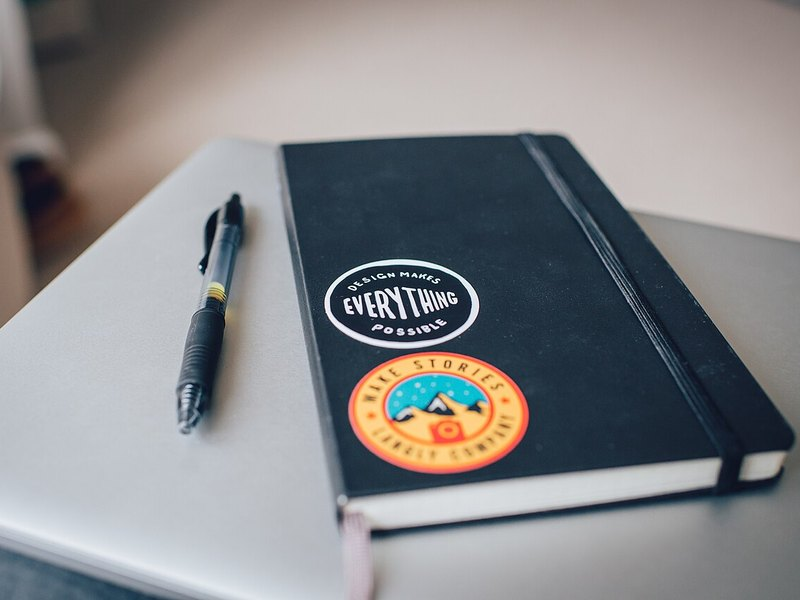
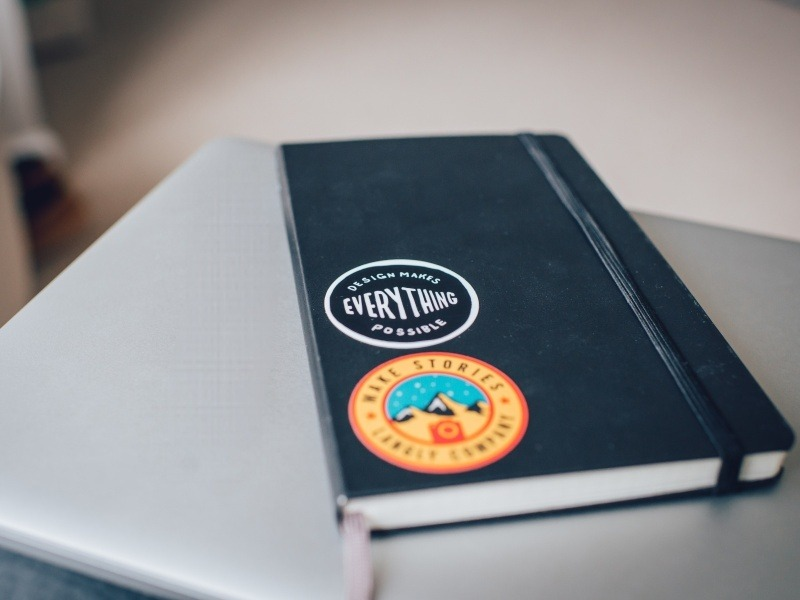
cards: 第23巻の공책（ノート）の実物写真から、ノートの横に置かれていたペンを消して背景を作り直し・PHOTO_VER=16・クレジットに改変の表示を追加

diff --git a/cards.html b/cards.html
@@ -1147,7 +1147,7 @@ var VOLUMES = [
   "23-jiugae": { f: "assets/photos/v23-jiugae.jpg", a: "Stefan-Xp", l: "CC BY-SA 3.0", u: "https://commons.wikimedia.org/wiki/File:Pelikan_Radiergummi.jpg" },
   "23-saekyeonpil": { f: "assets/photos/v23-saekyeonpil.jpg", a: "MichaelMaggs", l: "CC BY-SA 3.0", u: "https://commons.wikimedia.org/wiki/File:Colouring_pencils.jpg" },
   "23-keurepas": { f: "assets/photos/v23-keurepas.jpg", a: "Ks.mini", l: "CC BY-SA 3.0", u: "https://commons.wikimedia.org/wiki/File:Crayons_with_colors.JPG" },
-  "23-gongchaek": { f: "assets/photos/v23-gongchaek.jpg", a: "Ian Schneider goian", l: "CC0", u: "https://commons.wikimedia.org/wiki/File:Stickers_on_a_notebook_(Unsplash).jpg" },
+  "23-gongchaek": { f: "assets/photos/v23-gongchaek.jpg", a: "Ian Schneider goian", l: "CC0", u: "https://commons.wikimedia.org/wiki/File:Stickers_on_a_notebook_(Unsplash).jpg", m: "ペンを消去" },
   "23-chaek": { f: "assets/photos/v23-chaek.jpg", a: "HonysTorresArt", l: "CC BY-SA 4.0", u: "https://commons.wikimedia.org/wiki/File:Open_Internal_Pages_of_the_Book_Detr%C3%A1s_del_espejo_05.png" },
   "23-gawi": { f: "assets/photos/v23-gawi.jpg", a: "BGN-WMCO", l: "CC BY 2.5", u: "https://commons.wikimedia.org/wiki/File:Pair_of_scissors_with_black_handle.jpg" },
   "23-pul": { f: "assets/photos/v23-pul.jpg", a: "Elarkon", l: "CC BY-SA 3.0", u: "https://commons.wikimedia.org/wiki/File:Pritt_Sticks.JPG" },
@@ -1194,7 +1194,7 @@ var VOLUMES = [
   /* 音声ファイルを追加したら、この数字を上げてください（ブラウザに残った古い404を避けるため） */
   var AUDIO_VER = "2";
   /* 写真を差し替えたら、この数字を上げてください（ブラウザに残った古い画像を避けるため） */
-  var PHOTO_VER = "15";
+  var PHOTO_VER = "16";
   var LANG_KEY = "levelupk_cards_lang";
   var probeCache = {};
   var lang = "ja";

diff --git a/assets/photos/CREDITS.md b/assets/photos/CREDITS.md
@@ -16,6 +16,7 @@ CC BY / CC BY-SA の写真は、カードの下に「写真：作者 ／ Wikimed
 第19巻（かでん）の 텔레비전・에어컨・청소기・선풍기・드라이기・태블릿 の6点と、第20巻の 병원 は、2026-11-26 に、テレビは テレビ本体だけが主役になる白背景の写真、エアコンは 今どきの白い壁かけ形、そうじきは コードレスのスティック形、せんぷうきは 丸い羽根から台まで全体が入る写真、ドライヤーは ふつうの家庭用、タブレットは タブレットが画面いっぱいの写真、びょういんは 建物に「病院」の文字が大きく出ている写真に差し替えました。
 第18巻（かぐ）の 책상 は、コンピューターや雑貨の少ない、机そのものが主役の写真に、옷장 は、扉を開けて服が見える写真に、2026-11-26 に差し替えました。同じ第18巻の最後の4語は、이불（ふとん）→사이드 테이블、베개（まくら）→자개장（らでんたんす、メトロポリタン美術館所蔵）、커튼（カーテン）→붙박이장（つくりつけクローゼット）、카펫（カーペット）→찬장（しょっきだな）に、ことばごと入れ替えました（2026-11-26）。찬장 は縦長の写真なので、左右の壁をのばして 800×600 に収めました。
 第22巻（やさい）の 오이・감자・고구마 は、2026-11-26 に、오이 は ズッキーニと まぎらわしかった写真から 細長く いぼのある きゅうりに、감자 は 赤い皮の品種から ふつうの 黄褐色の じゃがいもに、고구마 は 色の うすい オレンジの皮から 濃い むらさき色の皮の さつまいもに 差し替えました。
+第23巻（ようちえん・ぶんぐ）の 공책 は、2026-11-26 に、ノートの横に置かれていたペンを消して背景を作り直しました（ノートとそのステッカー、背景は元の写真のまま）。
 
 | 巻 | ファイル | ことば | 元のファイル | 作者 | ライセンス | 出典 |
 |---|---|---|---|---|---|---|
@@ -344,7 +345,7 @@ CC BY / CC BY-SA の写真は、カードの下に「写真：作者 ／ Wikimed
 | 第23巻 ようちえん・ぶんぐ | v23-jiugae.jpg | 지우개（けしゴム） | Pelikan Radiergummi.jpg | Stefan-Xp | CC BY-SA 3.0 | [Commons](https://commons.wikimedia.org/wiki/File:Pelikan_Radiergummi.jpg) |
 | 第23巻 ようちえん・ぶんぐ | v23-saekyeonpil.jpg | 색연필（いろえんぴつ） | Colouring pencils.jpg | MichaelMaggs | CC BY-SA 3.0 | [Commons](https://commons.wikimedia.org/wiki/File:Colouring_pencils.jpg) |
 | 第23巻 ようちえん・ぶんぐ | v23-keurepas.jpg | 크레파스（クレヨン） | Crayons with colors.JPG | Ks.mini | CC BY-SA 3.0 | [Commons](https://commons.wikimedia.org/wiki/File:Crayons_with_colors.JPG) |
-| 第23巻 ようちえん・ぶんぐ | v23-gongchaek.jpg | 공책（ノート） | Stickers on a notebook (Unsplash).jpg | Ian Schneider goian | CC0 | [Commons](https://commons.wikimedia.org/wiki/File:Stickers_on_a_notebook_(Unsplash).jpg) |
+| 第23巻 ようちえん・ぶんぐ | v23-gongchaek.jpg | 공책（ノート） | Stickers on a notebook (Unsplash).jpg | Ian Schneider goian | CC0（ペンを消去） | [Commons](https://commons.wikimedia.org/wiki/File:Stickers_on_a_notebook_(Unsplash).jpg) |
 | 第23巻 ようちえん・ぶんぐ | v23-chaek.jpg | 책（ほん） | Open Internal Pages of the Book Detrás del espejo 05.png | HonysTorresArt | CC BY-SA 4.0 | [Commons](https://commons.wikimedia.org/wiki/File:Open_Internal_Pages_of_the_Book_Detr%C3%A1s_del_espejo_05.png) |
 | 第23巻 ようちえん・ぶんぐ | v23-gawi.jpg | 가위（はさみ） | Pair of scissors with black handle.jpg | BGN-WMCO | CC BY 2.5 | [Commons](https://commons.wikimedia.org/wiki/File:Pair_of_scissors_with_black_handle.jpg) |
 | 第23巻 ようちえん・ぶんぐ | v23-pul.jpg | 풀（のり） | Pritt Sticks.JPG | Elarkon | CC BY-SA 3.0 | [Commons](https://commons.wikimedia.org/wiki/File:Pritt_Sticks.JPG) |
